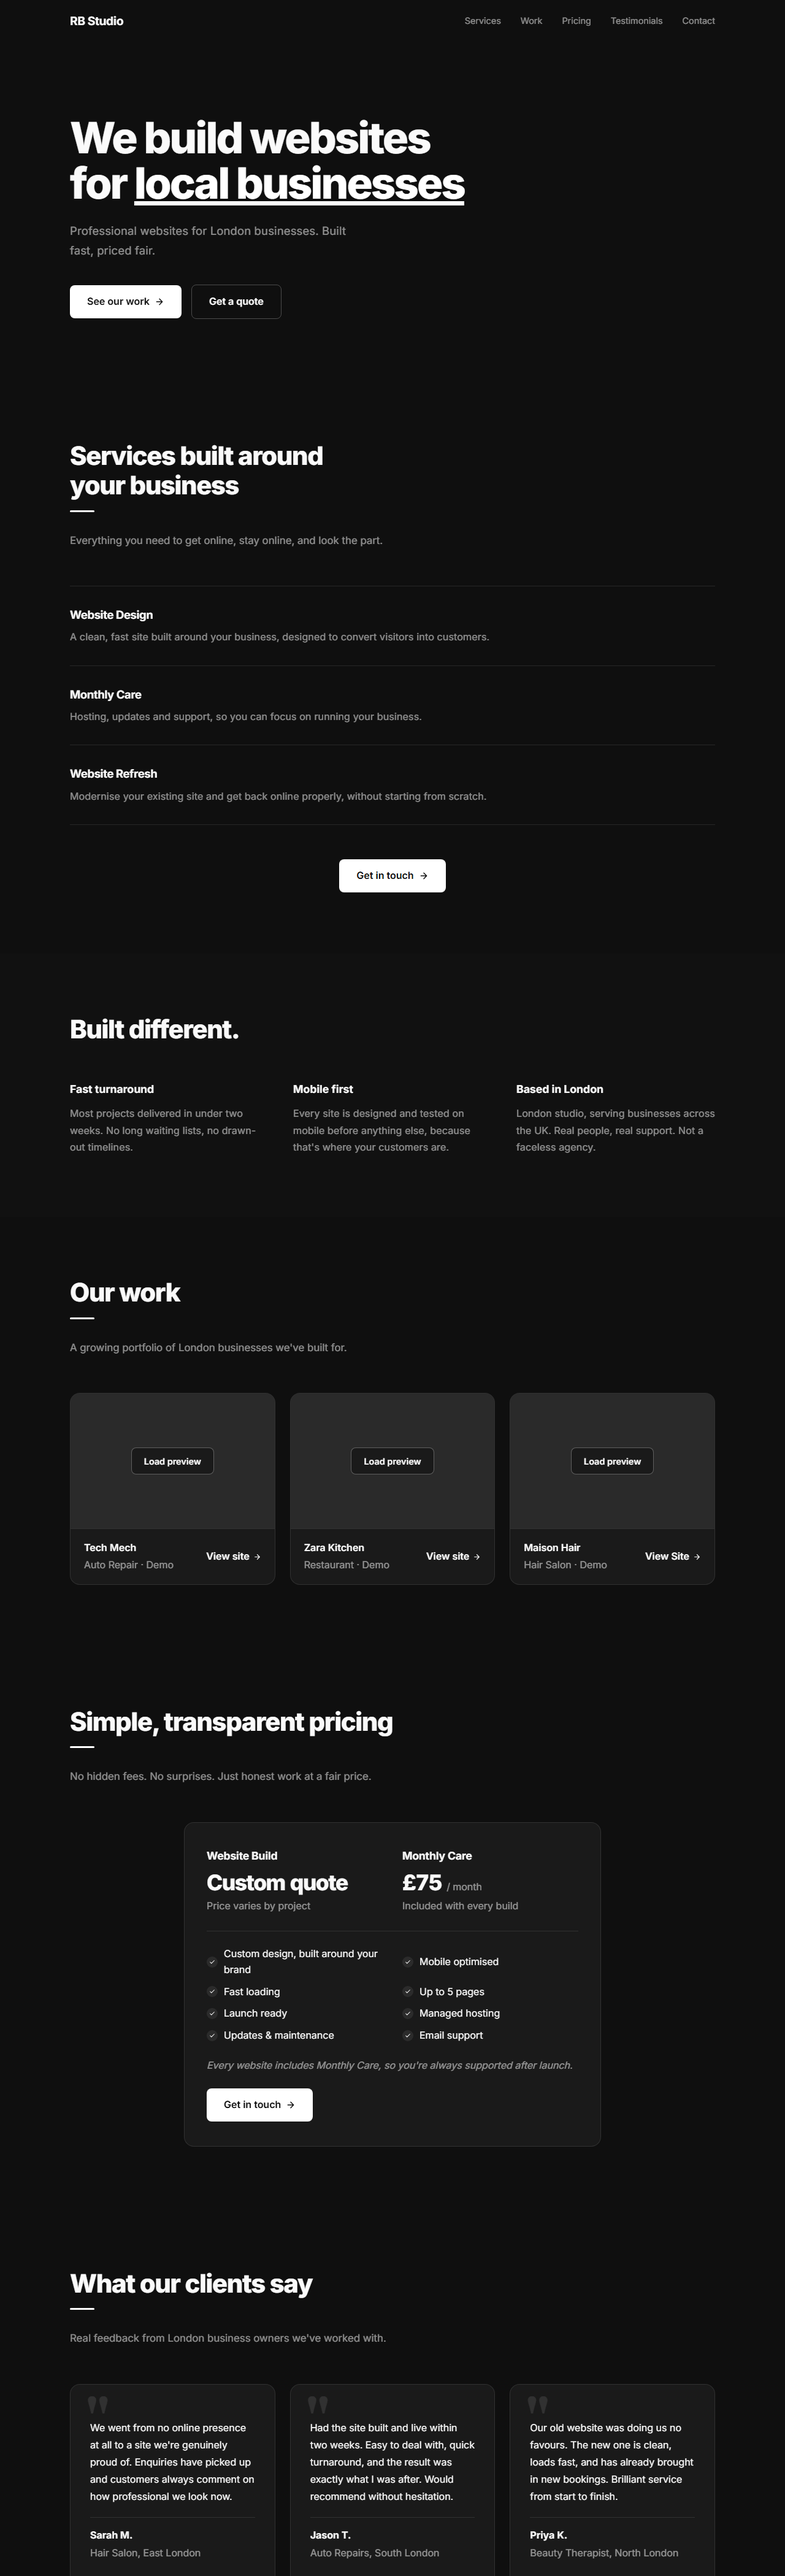
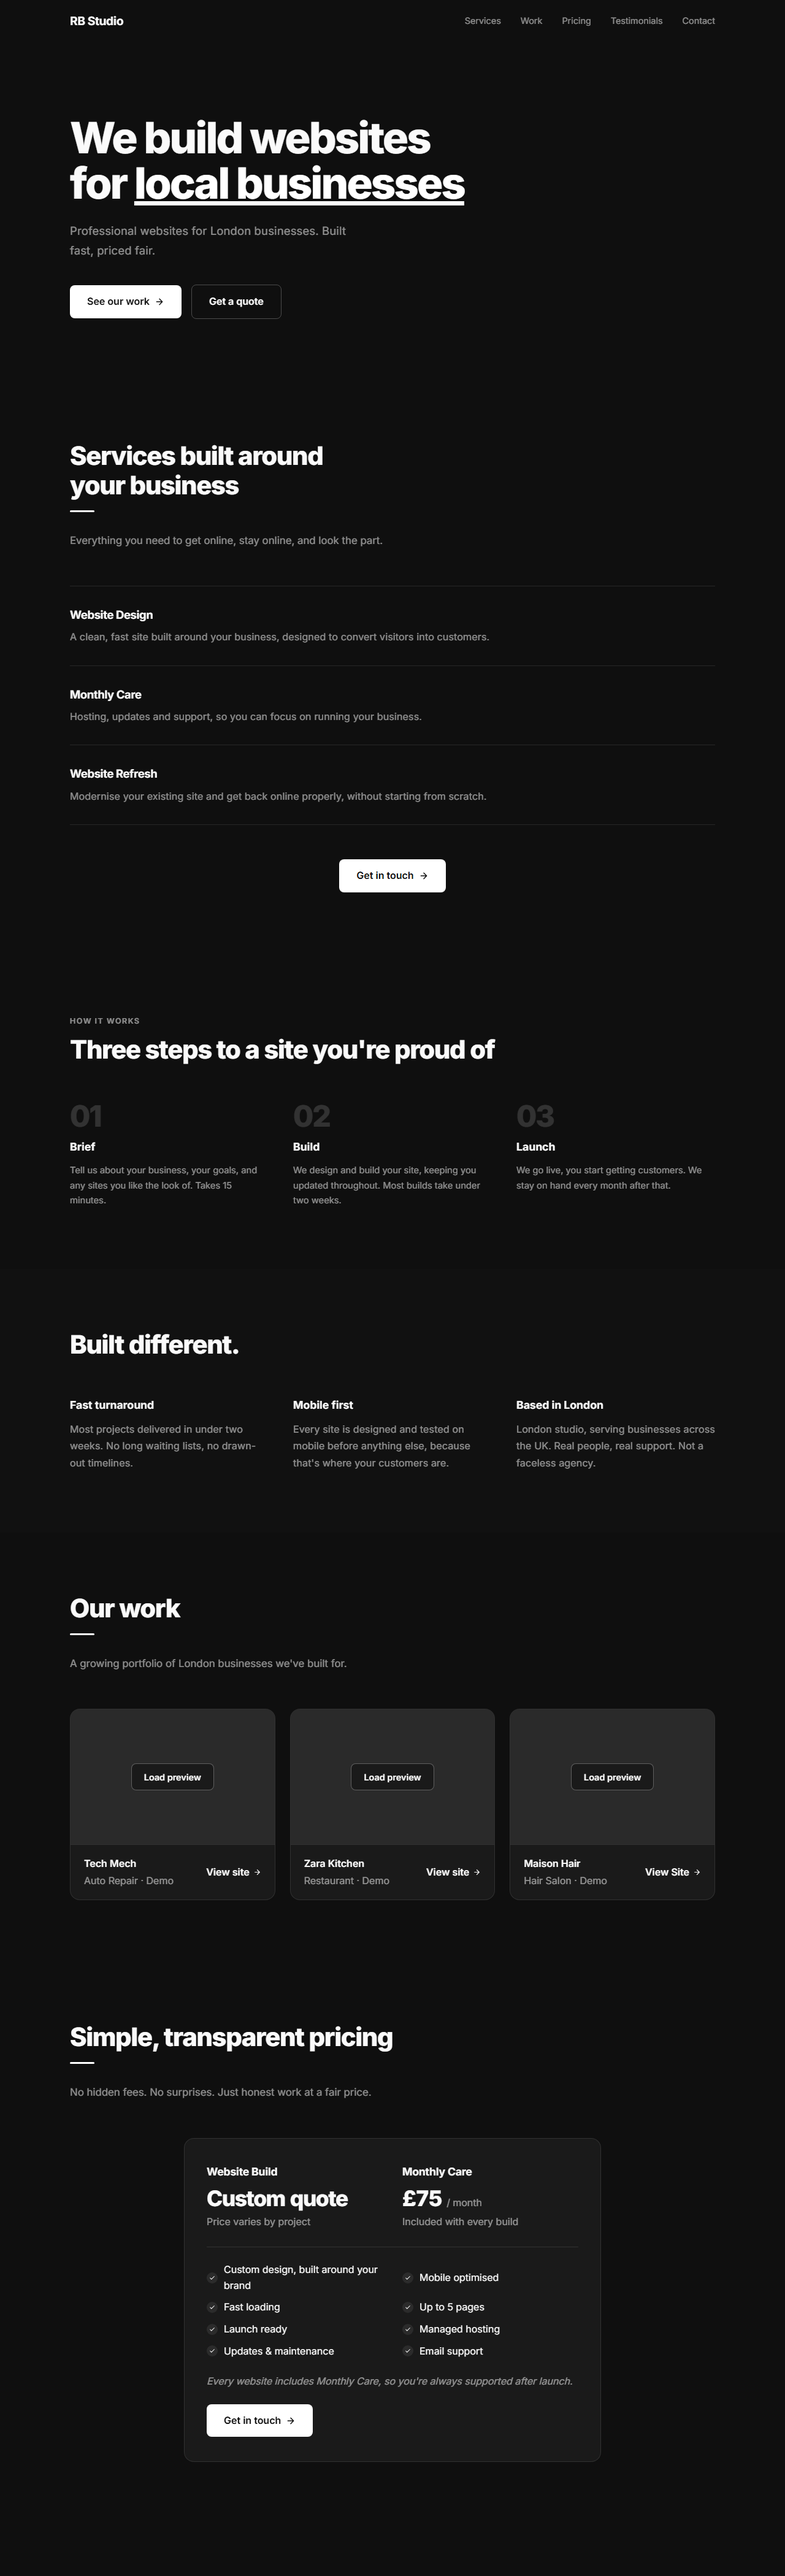
Add How it works process section
Insert a three-step process section between services and why. The grid
is three columns, collapsing to one under 640px, with fade-ins matching
the rest of the page. Restore the section label class with the muted
token. Refresh renders.

diff --git a/index.html b/index.html
@@ -391,6 +391,49 @@
       margin-top: 56px;
     }
 
+    .section-label {
+      font-size: 0.78rem;
+      font-weight: 600;
+      letter-spacing: 0.12em;
+      text-transform: uppercase;
+      color: var(--muted);
+      margin-bottom: 14px;
+    }
+
+    /* ── PROCESS ── */
+    .process-grid {
+      display: grid;
+      grid-template-columns: repeat(3, 1fr);
+      gap: 40px;
+      margin-top: 60px;
+    }
+
+    .process-item {
+      display: flex;
+      flex-direction: column;
+      gap: 12px;
+    }
+
+    .process-num {
+      font-size: 3rem;
+      font-weight: 800;
+      color: var(--text);
+      opacity: 0.15;
+      letter-spacing: -0.04em;
+      line-height: 1;
+    }
+
+    .process-title {
+      font-size: 1.1rem;
+      font-weight: 700;
+    }
+
+    .process-desc {
+      font-size: 0.92rem;
+      color: var(--muted);
+      line-height: 1.65;
+    }
+
     /* ── WHY ── */
     #why {
       background: var(--surface-deep);
@@ -968,6 +1011,7 @@
         grid-template-columns: 1fr;
       }
 
+      .process-grid,
       .pricing-split,
       .pricing-list {
         grid-template-columns: 1fr;
@@ -1101,6 +1145,33 @@
           Get in touch
           <svg width="16" height="16" viewBox="0 0 24 24" fill="none" stroke="currentColor" stroke-width="2.2" stroke-linecap="round" stroke-linejoin="round"><path d="M5 12h14M12 5l7 7-7 7"/></svg>
         </a>
+      </div>
+    </div>
+  </section>
+
+  <!-- PROCESS -->
+  <section id="process">
+    <div class="container">
+      <div class="fade-in">
+        <p class="section-label">How it works</p>
+        <h2 class="section-title">Three steps to a site you're proud of</h2>
+      </div>
+      <div class="process-grid">
+        <div class="process-item fade-in fade-in-delay-1">
+          <div class="process-num">01</div>
+          <h3 class="process-title">Brief</h3>
+          <p class="process-desc">Tell us about your business, your goals, and any sites you like the look of. Takes 15 minutes.</p>
+        </div>
+        <div class="process-item fade-in fade-in-delay-2">
+          <div class="process-num">02</div>
+          <h3 class="process-title">Build</h3>
+          <p class="process-desc">We design and build your site, keeping you updated throughout. Most builds take under two weeks.</p>
+        </div>
+        <div class="process-item fade-in fade-in-delay-3">
+          <div class="process-num">03</div>
+          <h3 class="process-title">Launch</h3>
+          <p class="process-desc">We go live, you start getting customers. We stay on hand every month after that.</p>
+        </div>
       </div>
     </div>
   </section>
